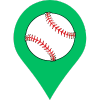
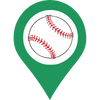
커밋

diff --git a/src/components/map/component/KakaoMap.jsx b/src/components/map/component/KakaoMap.jsx
@@ -3,32 +3,22 @@ import SearchForm from './SearchForm';
 import PlaceList from './PlaceList';
 import MapService from '../services/MapService';
 import '../CSS/Map.css';
-
 const KakaoMap = () => {
   const mapRef = useRef(null);
-
   // 검색어 상태 관리
   const [keyword, setKeyword] = useState("");
-
-
   // 사용자 위치 상태 관리
   const [userPosition, setUserPosition] = useState(null);
-
   // 장소 목록 상태 관리
   const [places, setPlaces] = useState([]);
-
   // MapService 인스턴스 상태 관리
   const [mapService, setMapService] = useState(null);
-
   // 장소 목록 표시 여부 상태 관리
   const [showPlaceList, setShowPlaceList] = useState(false);
-
   // 현재 페이지 상태 관리
   const [currentPage, setCurrentPage] = useState(1);
-
   // 페이지당 결과 수
   const resultsPerPage = 5;
-
   // 현재 위치 가져오기 함수
   const getCurrentPosition = useCallback(() => {
     return new Promise((resolve, reject) => {
@@ -39,7 +29,6 @@ const KakaoMap = () => {
       }
     });
   }, []);
-
   // 컴포넌트가 마운트될 때 사용자 위치 초기화
   useEffect(() => {
     const initializeUserPosition = async () => {
@@ -56,7 +45,6 @@ const KakaoMap = () => {
     };
     initializeUserPosition();
   }, [getCurrentPosition]);
-
   // 사용자 위치가 변경될 때마다 지도 초기화
   useEffect(() => {
     if (mapRef.current && userPosition) {
@@ -65,7 +53,6 @@ const KakaoMap = () => {
       setMapService(mapServiceInstance);
     }
   }, [userPosition]);
-
   // 검색어 변경 시 장소 검색
   useEffect(() => {
     if (mapService && keyword) {
@@ -76,18 +63,15 @@ const KakaoMap = () => {
       setShowPlaceList(false); // 장소 목록 숨기기
     }
   }, [mapService, keyword]);
-
   // 검색어 제출 처리 함수
   const handleSearchSubmit = useCallback((searchKeyword, selectedOptions) => {
     setKeyword(searchKeyword); // 검색어 설정
     mapService.searchPlaces(searchKeyword, selectedOptions); // 장소 검색 요청
   }, [mapService]);
-
   // 페이지 변경 처리 함수
   const changePage = useCallback((pageNumber) => {
     setCurrentPage(pageNumber); // 현재 페이지 설정
   }, []);
-
   // 검색 반경 변경 처리 함수
   const handleRadiusChange = useCallback((radius) => {
     if (mapService) {
@@ -95,14 +79,14 @@ const KakaoMap = () => {
       mapService.searchPlaces(keyword, []); // 장소 검색 요청 (선택된 옵션 초기화)
     }
   }, [mapService, keyword]);
-
   return (
     <div className="map_wrap">
       {/* 지도 컨테이너 */}
       <div id="map" ref={mapRef} style={{ width: '100%', height: '100%', position: '', overflow: '' }}></div>
       {/* 검색 폼과 장소 목록 */}
       <div id="menu_wrap" className="bg_white">
-        <SearchForm handleSearchSubmit={handleSearchSubmit} handleRadiusChange={handleRadiusChange} />
+        
+        {/* <SearchForm handleSearchSubmit={handleSearchSubmit} handleRadiusChange={handleRadiusChange} /> */}
         <hr />
         {/* 장소 목록 표시 */}
         {showPlaceList && (
@@ -131,5 +115,4 @@ const KakaoMap = () => {
     </div>
   );
 };
-
 export default KakaoMap;

diff --git a/src/components/map/services/MapService.jsx b/src/components/map/services/MapService.jsx
@@ -160,12 +160,8 @@ class MapService {
   addMarker(position, index) {
     let imageSrc = 'https://t1.daumcdn.net/localimg/localimages/07/mapapidoc/marker_number_blue.png';
     // 마커 사이즈 --------------------------------------
-    let imageSize = new this.kakao.maps.Size(36, 37);
-    let imgOptions = {
-      spriteSize: new this.kakao.maps.Size(36, 691),
-      spriteOrigin: new this.kakao.maps.Point(0, (index * 46) + 10),
-      offset: new this.kakao.maps.Point(13, 37)
-    };
+    let imageSize = new this.kakao.maps.Size(34, 35);
+    let imgOptions = {offset: new this.kakao.maps.Point(27, 69)};
     // --------------------------------------------------
     
     // 검색이 축구 일 경우

diff --git a/src/components/map/CusMap.jsx b/src/components/map/CusMap.jsx
@@ -1,21 +1,23 @@
 import React from "react";
 import Style from "../../Style";
-import { Grid } from "@material-ui/core";
+import { Box, Container, Grid } from "@material-ui/core";
 import Header from "../header/Header";
 import KakaoMap from "./component/KakaoMap";
+
 
 const Map = () => {
   const styles = Style();
   return (
     <div>
       <Grid className={styles.app}>
-        <Grid item container className={styles.app__header}>
+        <Grid item container className={styles.app__header} >
           <Header />
+          <KakaoMap/>   
         </Grid>
+      
       </Grid>
-
       <h2></h2>
-      <KakaoMap />
+      
     </div>
   );
 };

diff --git a/src/components/map/CSS/Map.css b/src/components/map/CSS/Map.css
@@ -69,10 +69,7 @@
 }
 
 /* 지도 */
-.map_wrap {
-  height: 100%; 
-  width: 100%; 
-}
+
 html, body {
   height: 100%; /* HTML과 body 요소의 높이를 100%로 설정 */
   margin: 0; /* 기본 마진 제거 */
@@ -161,7 +158,7 @@ html, body {
   box-shadow: 0 2px 6px rgba(0, 0, 0, 0.1);
   padding: 6px;
 
-  width: 384px; /* 원하는 너비로 설정 */
+  width: 100%; /* 원하는 너비로 설정 */
 }
 
 .search-bar {
@@ -283,7 +280,7 @@ html, body {
 }
 
 .map_wrap{
-  width: 100%;
-   height: 1080px;
+   width: 100%;
+   height: 1024px;
 
 }
